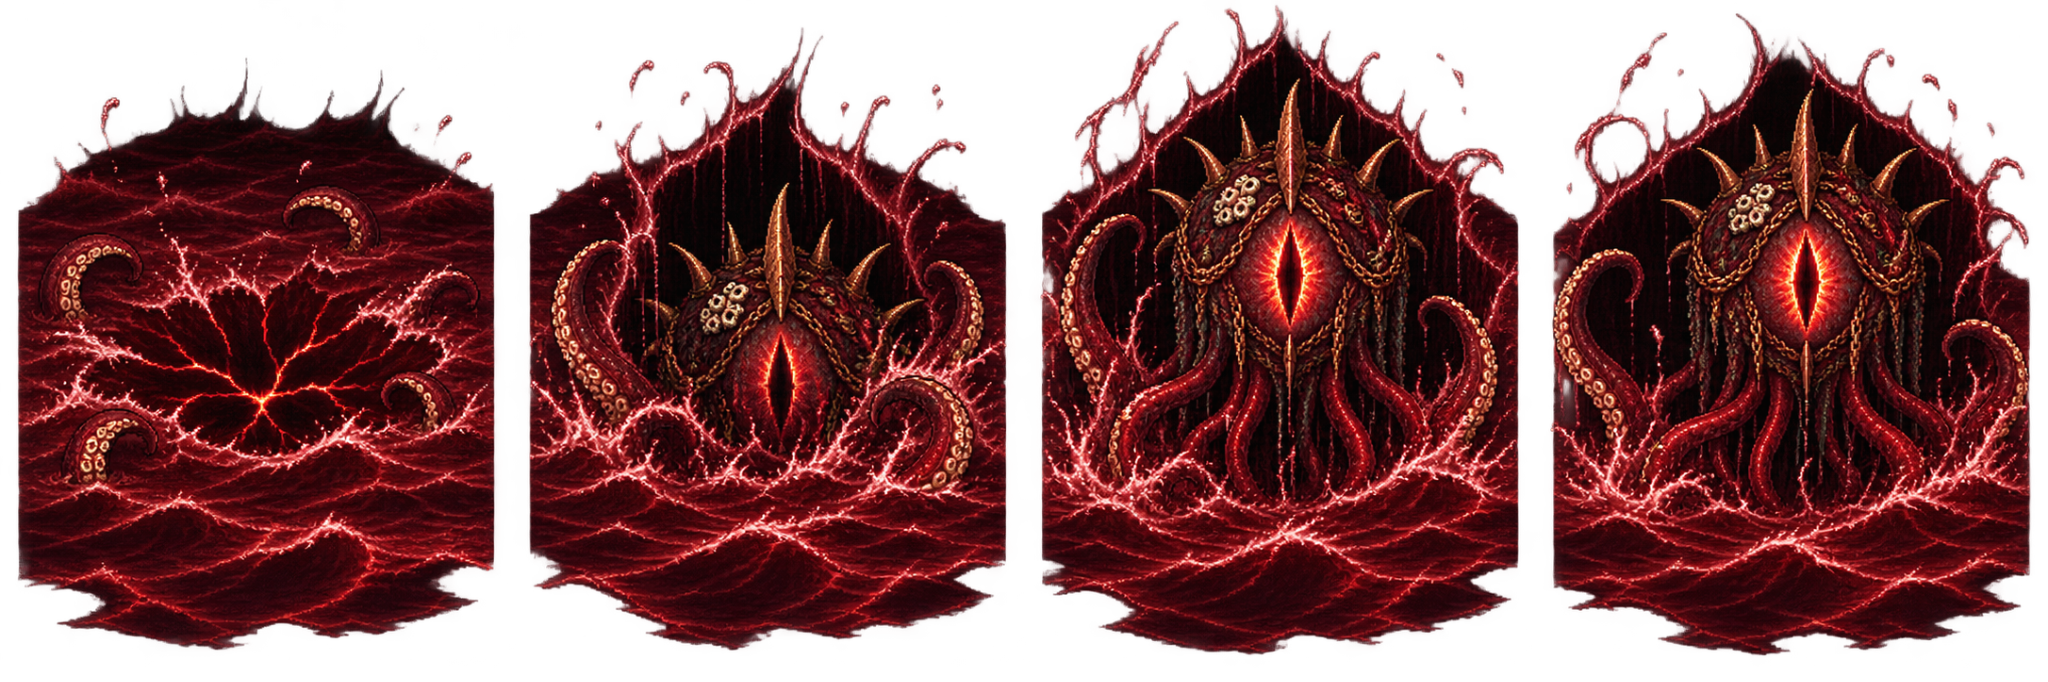
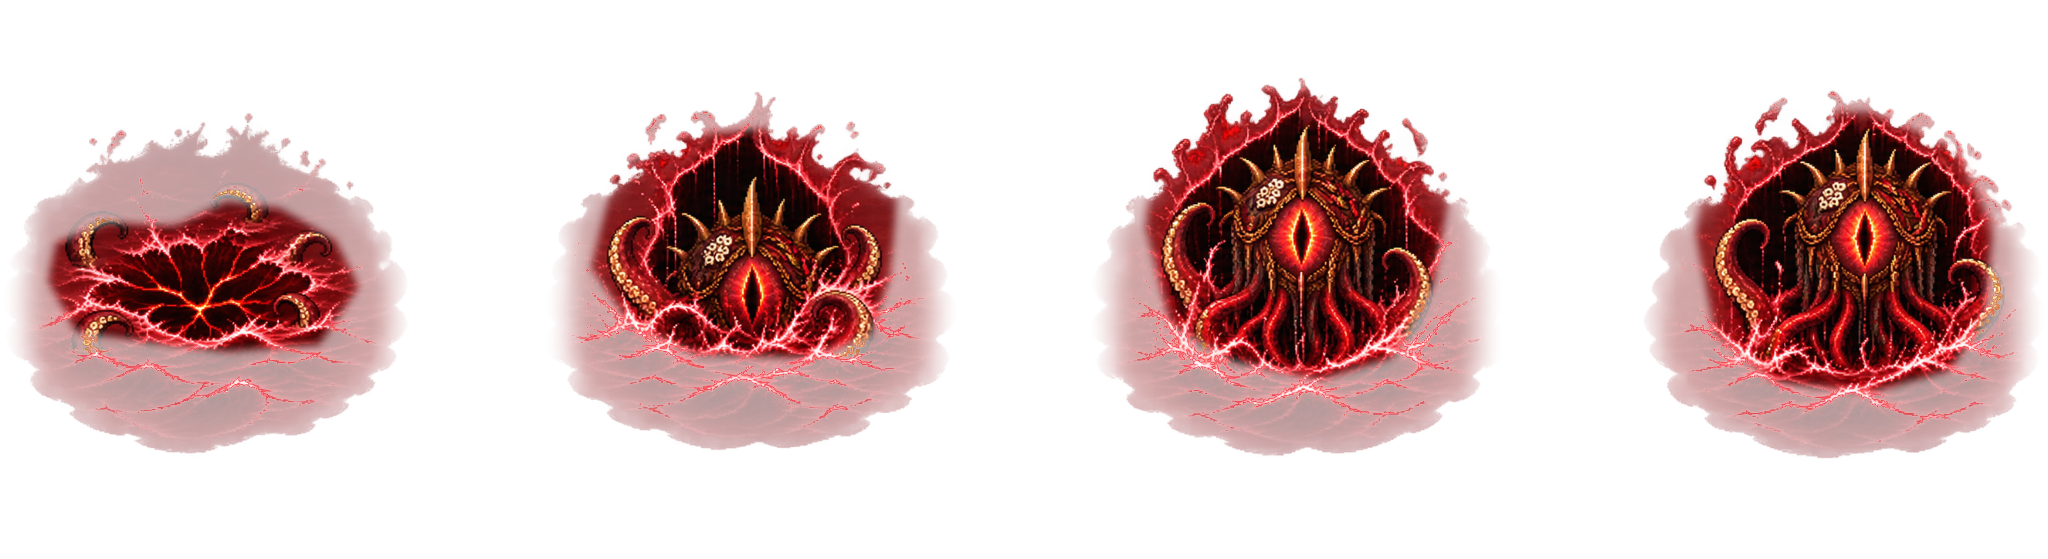
asset: replace Dagon eye submersed animation and align frames/cache/test

diff --git a/sw.js b/sw.js
@@ -1,4 +1,4 @@
-const CACHE_NAME='omar-mar-de-sangue-v91-dagon-submerso-20261028';
+const CACHE_NAME='omar-mar-de-sangue-v92-dagon-eye-submerso-20261028';
 const ASSETS=["./","./index.html","./asset-audit.html","./PwaStatus.js","./Game.js","./SeaOceanV3.js","./assets/tiles/sea-v3/sea_chunk_01_base.webp","./assets/tiles/sea-v3/sea_chunk_02_base.webp","./assets/tiles/sea-v3/sea_chunk_03_base.webp","./assets/tiles/sea-v3/sea_chunk_04_base.webp","./SeaEffects.js","./SeaWeather.js","./SeaMenus.js","./SeaPoliticalEvents.js","./SeaIslands.js","./SeaAtlas.js","./SeaGunnery.js","./SeaImpulse.js","./SeaCannonChargeFx.js","./SeaContracts.js","./SeaPerformance.js","./SeaPerformanceCompare.js","./SeaPixelPolish.js","./SeaSaveTransfer.js","./PortUI.js","./PortUI.css","./PortThemeAbyss.css","./style.css","./phaser.min.js","./manifest.webmanifest","./assets/abyss/coral_horror.png","./assets/abyss/cult_barge.png","./assets/abyss/dagon_eye.png","./assets/abyss/dreadnought.png","./assets/abyss/drowned_choir.png","./assets/abyss/kraken.png","./assets/abyss/kraken_tentacle.png","./assets/abyss/shell_guardian.png","./assets/abyss/temple_turtle.png","./assets/fx/cannon_charge_sparks.png","./assets/fx/blast_0.png","./assets/fx/blast_1.png","./assets/fx/blast_2.png","./assets/fx/blast_3.png","./assets/fx/foam_0.png","./assets/fx/foam_1.png","./assets/fx/foam_2.png","./assets/fx/foam_3.png","./assets/fx/gold_0.png","./assets/fx/gold_1.png","./assets/fx/gold_2.png","./assets/fx/gold_3.png","./assets/fx/muzzle_0.png","./assets/fx/muzzle_1.png","./assets/fx/muzzle_2.png","./assets/fx/muzzle_3.png","./assets/fx/muzzle_4f.png","./assets/fx/shrine_glow.png","./assets/fx/smoke_0.png","./assets/fx/smoke_1.png","./assets/fx/smoke_2.png","./assets/fx/smoke_3.png","./assets/fx/splash_0.png","./assets/fx/splash_1.png","./assets/fx/splash_2.png","./assets/fx/splash_3.png","./assets/fx/splash_4f.png","./assets/fx/splinters_0.png","./assets/fx/splinters_1.png","./assets/fx/splinters_2.png","./assets/fx/splinters_3.png","./assets/fx/splinters_4f.png","./assets/fx/violet_0.png","./assets/fx/violet_1.png","./assets/fx/violet_2.png","./assets/fx/violet_3.png","./assets/islands/island_daegon.png","./assets/islands/island_demeter.png","./assets/islands/island_monastery.png","./assets/islands/island_reef.png","./assets/islands/island_ruin.png","./assets/islands/island_wreck.png","./assets/items/treasure_chest.png","./assets/items/treasure_coin.png","./assets/items/treasure_crate.png","./assets/menu_bg.png","./assets/ui/hud-helm-landscape.png","./assets/ui/hud-combat-landscape.png","./assets/sprites/enemy_admiral.png","./assets/sprites/enemy_bombard.png","./assets/sprites/enemy_corsair.png","./assets/sprites/enemy_court_ship.png","./assets/sprites/enemy_galleon.png","./assets/sprites/enemy_ram.png","./assets/sprites/enemy_spectral.png","./assets/player/mar_de_sangue_navio_proa_baixo_20_evolucoes.png","./assets/tiles/sea_base.png","./assets/tiles/sea_blood.png","./assets/tiles/sea_foam.png","./assets/tiles/sea_mist.png","./assets/ui/command_console.png","./assets/ui/command_console_analog.png","./assets/v15/beast_coral.png","./assets/v15/dagon_emerging.png","./assets/v15/beast_eel_swim.webp","./assets/v15/beast_drowned.png","./assets/v15/beast_kraken.png","./assets/v15/beast_tentacle.png","./assets/v15/fx_frame_00.png","./assets/v15/fx_frame_01.png","./assets/v15/fx_frame_02.png","./assets/v15/fx_frame_03.png","./assets/v15/fx_frame_04.png","./assets/v15/fx_frame_05.png","./assets/v15/fx_frame_06.png","./assets/v15/fx_frame_07.png","./assets/v15/fx_frame_08.png","./assets/v15/fx_frame_09.png","./assets/v15/fx_frame_10.png","./assets/v15/fx_frame_11.png","./assets/v15/fx_frame_12.png","./assets/v15/fx_frame_13.png","./assets/v15/fx_frame_14.png","./assets/v15/fx_frame_15.png","./assets/v15/ship_admiral.png","./assets/v15/ship_blood.png","./assets/v15/ship_chapel.png","./assets/v15/ship_flagship.png","./assets/v15/ship_merchant.png","./assets/v15/ship_ram.png","./assets/v15/ship_royal.png","./assets/v15/ship_sloop.png","./assets/v15/ship_spectral.png","./assets/v15/ship_wrecked.png","./icons/icon-192.png","./icons/icon-512.png"];
 self.addEventListener('install',event=>event.waitUntil(caches.open(CACHE_NAME).then(c=>c.addAll(ASSETS)).then(()=>self.skipWaiting())));
 self.addEventListener('activate',event=>event.waitUntil(caches.keys().then(keys=>Promise.all(keys.filter(k=>k!==CACHE_NAME && k.startsWith('omar-mar-de-sangue')).map(k=>caches.delete(k)))).then(()=>self.clients.claim())));

diff --git a/Game.js b/Game.js
@@ -273,7 +273,7 @@ class SeaBoot extends Phaser.Scene {
             frameWidth:512, frameHeight:682, endFrame:3
         });
         this.load.image('fx-tentacle', 'assets/abyss/kraken_tentacle.png');
-        this.load.spritesheet('dagon-eye-animated', 'assets/abyss/dagon_eye.png', {frameWidth:512,frameHeight:682,endFrame:3});
+        this.load.spritesheet('dagon-eye-animated', 'assets/abyss/dagon_eye.png', {frameWidth:512,frameHeight:559,endFrame:3});
         this.load.spritesheet('fx-cannon-charge', 'assets/fx/cannon_charge_sparks.png', {frameWidth:96,frameHeight:96,endFrame:4});
         this.load.image('fx-splash-0', 'assets/fx/splash_0.png');
         this.load.image('fx-splash-1', 'assets/fx/splash_1.png');
@@ -816,10 +816,10 @@ class Game extends Phaser.Scene {
         else if (type !== 'cultista' && v15Visuals[type] && this.textures.exists(v15Visuals[type]))
             tex = v15Visuals[type];
         // Spritesheet source height is ONE frame; four frames are side by side.
-        const animated682 = (type==='olho_dagon' && tex==='dagon-eye-animated') ||
-            (type==='dagon' && tex==='dagon-animated') ||
+        const animated682 = (type==='dagon' && tex==='dagon-animated') ||
             (type==='kraken' && tex==='kraken-animated');
-        const sourceH = type==='afogados' && tex==='drowned-animated' ? 646 :
+        const sourceH = type==='olho_dagon' && tex==='dagon-eye-animated' ? 559 :
+            type==='afogados' && tex==='drowned-animated' ? 646 :
             type==='coral' && tex==='coral-animated' ? 644 :
             type==='recife' && tex==='reef-devourer-animated' ? 724 :
             type==='tentaculo' && tex==='tentacle-animated' ? 724 :
